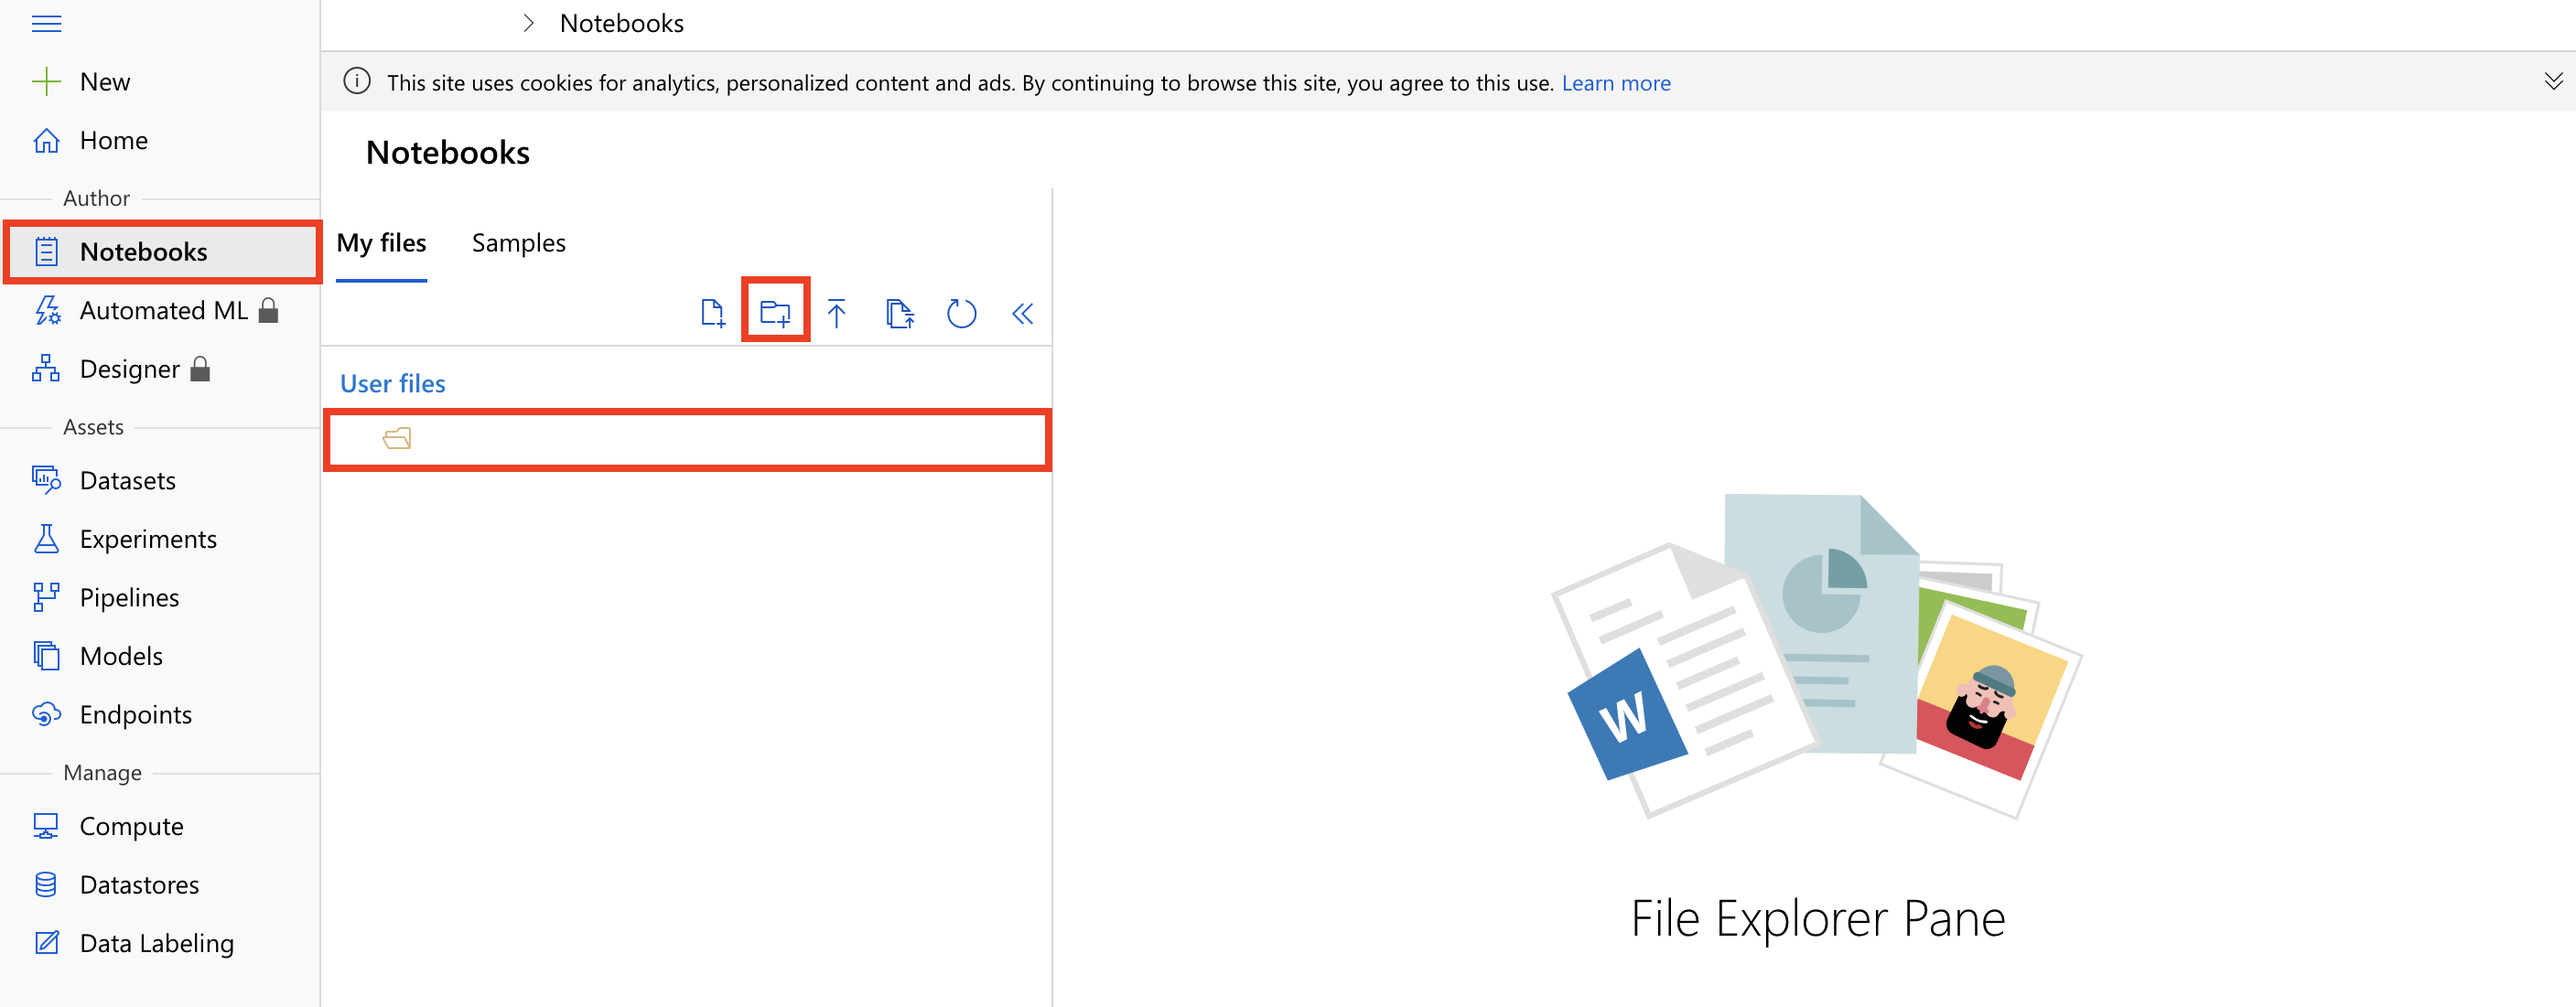
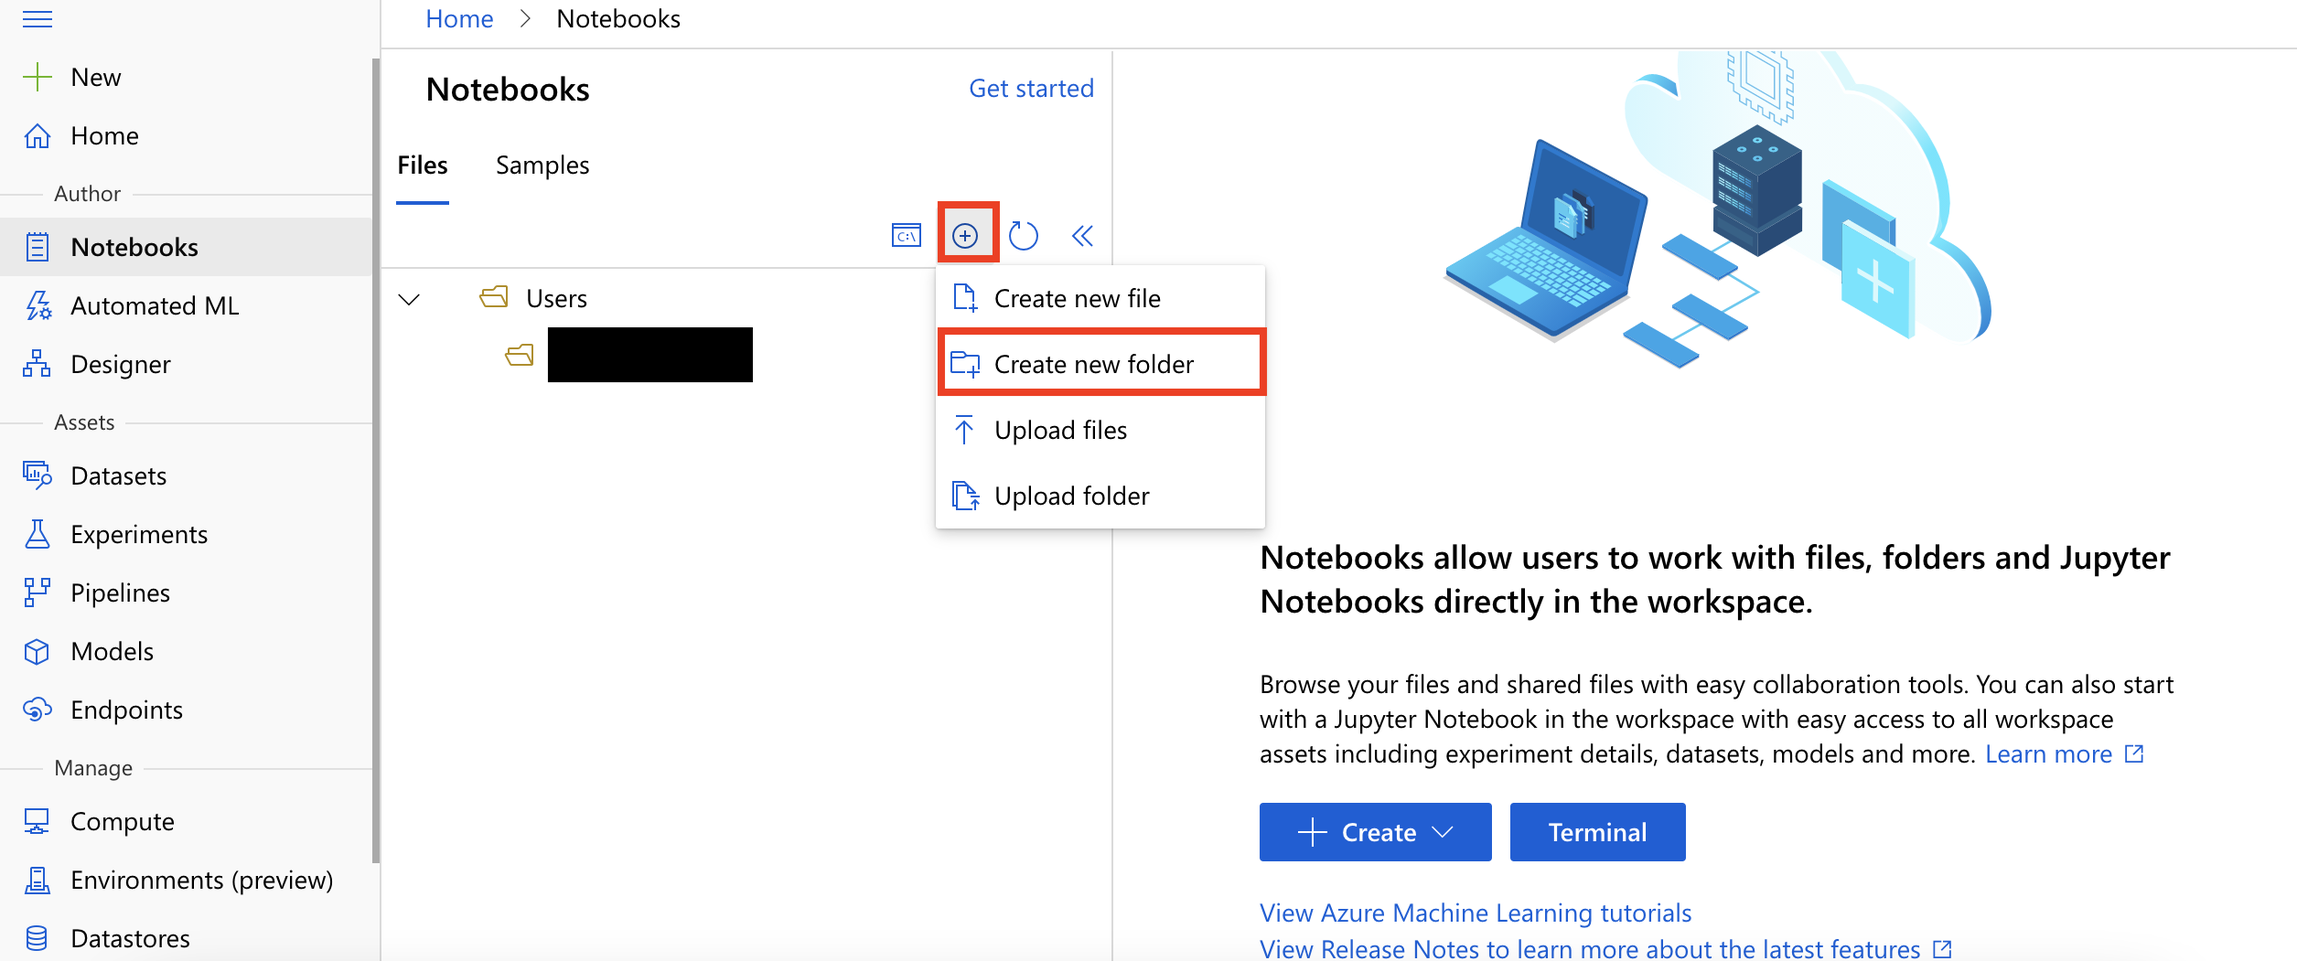
Sept 2021 updates fix issues #45 #46 #48

diff --git a/Hands-on lab/HOL step-by-step - MLOps.md b/Hands-on lab/HOL step-by-step - MLOps.md
@@ -55,7 +55,8 @@ Microsoft and the trademarks listed at <https://www.microsoft.com/en-us/legal/in
     - [Task 1: Create new release](#task-1-Create-new-release)
     - [Task 2: Monitor the Test Deployment stage](#task-2-Monitor-the-Test-Deployment-stage)
   - [Exercise 5: Testing the deployed solution and review deployed model datasheet](#Exercise-5-Testing-the-deployed-solution-and-review-deployed-model-datasheet)
-    - [Task 1: Test the deployment and review model datasheet](#Task-1-Test-the-deployment-and-review-model-datasheet)
+    - [Task 1: Setup the notebooks environment](#Task-1-Setup-the-notebooks-environment)
+    - [Task 2: Test the deployment and review model datasheet](#Task-2-Test-the-deployment-and-review-model-datasheet)
   - [Exercise 6: Deploy the Production Deployment stage](#Exercise-6-Deploy-the-Production-Deployment-stage)
     - [Task 1: Approve the Production Deployment](#Task-1-Approve-the-Production-Deployment)
     - [Task 2: Monitor the Production Deployment stage](#Task-2-Monitor-the-Production-Deployment-stage)
@@ -64,8 +65,7 @@ Microsoft and the trademarks listed at <https://www.microsoft.com/en-us/legal/in
     - [Task 2: Check Application Insights telemetry](#task-2-check-application-insights-telemetry)
     - [Task 3: Check the data collected](#task-3-check-the-data-collected)
   - [Exercise 8 (Optional): Creating and evaluating compliance classification models](#exercise-8-optional-creating-and-evaluating-compliance-classification-models)
-    - [Task 1: Setup the notebooks environment](#task-1-setup-the-notebooks-environment)
-    - [Task 2: Create the classification model using a notebook](#task-2-create-the-classification-model-using-a-notebook)
+    - [Task 1: Create the classification model using a notebook](#task-1-create-the-classification-model-using-a-notebook)
   - [Exercise 9 (Optional): Registering the model](#exercise-9-optional-registering-the-model)
     - [Task 1: Register Model using Azure Machine Learning Python SDK](#task-1-register-model-using-azure-machine-learning-python-sdk)
     - [Task 2: Register Model from Azure Machine Learning studio](#task-2-register-model-from-azure-machine-learning-studio)
@@ -443,19 +443,63 @@ Documenting the right information in the machine learning process is key to maki
 
 In this exercise, you verify that the release of the application works. You will also review the deployed model datasheet.
 
-### Task 1: Test the deployment and review model datasheet
+> **Note:** The new [Azure Machine Learning studio](https://ml.azure.com) provides a new immersive experience for managing the end-to-end machine learning lifecycle. You can use it either by logging in directly to it or by selecting the **Try the new Azure Machine Learning studio, Launch now** option in the **Overview** section of your Azure Machine Learning workspace.
 
-1. Download the [**Test Deployment.ipynb**](./notebooks/Test&#32;Deployment.ipynb) notebook to your computer, by selecting the **Raw** view in GitHub, and then **right-click + Save as**. Please ensure that the extension of the saved file is `.ipynb`. This is the notebook you will step through executing in this exercise.
+### Task 1: Setup the notebooks environment
 
-2. In the Azure Machine Learning Studio, navigate to **Notebooks**, and select **Upload files** option in the top menu.
+1. Download the [**Test Deployment.ipynb**](./notebooks/Test&#32;Deployment.ipynb) notebook to your computer, by selecting the **Raw** view in GitHub, and then **right-click + Save as**. Please ensure that the extension of the saved file is `.ipynb`. This is the notebook you will step through executing in this lab.
 
-3. Browse your local computer for the downloaded notebook, **Test Deployment.ipynb** and then select **MCW-MLOps** folder as the target folder. Select **Upload**.
+2. Sign in to [Azure Machine Learning studio](https://ml.azure.com).
 
-4. On the top bar, select the **mlops-compute** compute instance to use to run the notebook. Select the **Edit** drop down, and then select **Edit in Jupyter**. The new browser window will be opened.
+3. Select your subscription and the workspace you have available.
 
-5. Note that you will have to provide values for **Scoring URI** for the deployed ACI webservice in the notebook.
+4. Select **Notebooks, Go directly to my notebooks** on the left navigation pane.
 
-6. Follow the instructions within the notebook to complete the task.
+    ![In Azure Machine Learning Studio, Notebooks is selected from the left navigation pane.](media/notebook-00.png 'Open notebooks in Azure Machine Learning Studio')
+
+5. Select the folder under the **User files** section. It should be named as the currently logged username. Select the option to **Create new folder** in the top menu.
+
+    ![On the Notebooks screen, the current user is selected beneath the User Files section, and the Create New Folder icon is highlighted in the top toolbar.](media/notebook-01.png 'Create new notebooks folder')
+
+6. Fill in the folder name: `MCW-MLOps`.
+
+7. Select the **Upload files** option in the side menu.
+
+    ![On the Notebooks screen, beneath user files, the folder of the current user is expanded displaying the folder that was created in the previous step. The Upload files icon is highlighted in the top toolbar.](media/notebook-02.png 'Upload notebook to the workspace file share')
+
+8. Browse for the downloaded notebook, **Test Deployment.ipynb** and then select **Upload**.
+
+9. Select the notebook. Select **+ New Compute** to create the compute instance VM.
+
+    ![On the Notebooks screen, beneath user files, the folder of the current user is expanded along with the folder that was created in step 6. Inside this folder the Notebook that we uploaded in the previous step is displayed and is selected. On the Compute screen to the right, the + New Compute button is highlighted in the top taskbar.](media/notebook-03.png 'Create new compute instance')
+
+10. Provide the necessary data for creating a new compute instance to run on your notebooks.
+
+    - Compute name: `mlops-compute-<insert unique identifier>`. When you create a VM, provide a name. The name must be between 2 to 16 characters. Valid characters are letters, digits, and the – character. The compute name must not end with '-' or contain '-' followed by numbers. '-' needs to be followed by at least one letter. Finally, the compute name must also be unique across the entire Azure region.
+
+    - Virtual machine type: CPU (Central Processing Unit)
+
+    - Virtual machine size: **Standard_D3_v2**.
+
+    - Then select **Create**. It can take approximately 5 minutes to set up your VM.
+
+    ![The New Compute Instance form is displayed populated with the preceding values.](media/notebook-04.png 'Configure the new compute instance')
+
+    > **Note**: Once the VM is available it will be displayed in the top toolbar.
+
+### Task 2: Test the deployment and review model datasheet
+
+1. Select the uploaded **Test Deployment.ipynb** notebook, and then select the **Menu** drop down, and then select **Edit in Jupyter**. In the pop dialog, select **Continue** and then a new browser tab will be opened.
+
+    ![On the Notebooks screen, the Deep Learning with Text Notebook is selected. On the Compute screen to the right, a drop down list shows the compute currently running for the notebook, and in the taskbar the Edit option is expanded with the options Edit in Jupyter and Edit in JupyterLab.](media/notebook-05.png 'Edit the notebook in Jupyter')
+
+2. Select **Python 3.6 - Azure ML** if you are asked to select a Kernel.
+
+    ![A Kernel not found dialog is displayed with Python 3.6 - Azure ML selected from a drop down list. A Set Kernel button is available to confirm the kernel selection.](media/notebook-06.png 'Select Kernel version')
+
+3. Note that you will have to provide values for **Scoring URI** for the deployed ACI webservice in the notebook.
+
+4. Follow the instructions within the notebook to complete the task.
 
 ## Exercise 6: Deploy the Production Deployment stage
 
@@ -561,63 +605,19 @@ Duration: 40 minutes
 
 In this exercise, you create a model for classifying component text as compliant or non-compliant. This tutorial uses the cloud notebook server in your Azure Machine Learning workspace for an install-free and pre-configured experience, available in Azure Machine Learning studio.
 
-> **Note:** The new [Azure Machine Learning studio](https://ml.azure.com) provides a new immersive experience for managing the end-to-end machine learning lifecycle. You can use it either by logging in directly to it or by selecting the **Try the new Azure Machine Learning studio, Launch now** option in the **Overview** section of your Azure Machine Learning workspace.
-
-### Task 1: Setup the notebooks environment
+### Task 1: Create the classification model using a notebook
 
 1. Download the [**Deep Learning with Text.ipynb**](./notebooks/Deep&#32;Learning&#32;with&#32;Text.ipynb) notebook to your computer, by selecting the **Raw** view in GitHub, and then **right-click + Save as**. Please ensure that the extension of the saved file is `.ipynb`. This is the notebook you will step through executing in this lab.
 
-2. Sign in to [Azure Machine Learning studio](https://ml.azure.com).
+2. In the Azure Machine Learning Studio, navigate to **Notebooks**, and select **Upload files** option in the top menu.
 
-3. Select your subscription and the workspace you have available.
+3. Browse your local computer for the downloaded notebook, **Deep Learning with Text.ipynb** and then select **MCW-MLOps** folder as the target folder. Select **Upload**.
 
-4. Select **Notebooks** on the left navigation pane.
+4. On the top bar, select the **mlops-compute** compute instance to use to run the notebook. Select the **Edit** drop down, and then select **Edit in Jupyter**. The new browser window will be opened.
 
-    ![In Azure Machine Learning Studio, Notebooks is selected from the left navigation pane.](media/notebook-00.png 'Open notebooks in Azure Machine Learning Studio')
+5. Follow the instructions within the notebook to complete the lab.
 
-5. Select the folder under the **User files** section. It should be named as the currently logged username. Select the option to **Create new folder** in the top menu.
-
-    ![On the Notebooks screen, the current user is selected beneath the User Files section, and the Create New Folder icon is highlighted in the top toolbar.](media/notebook-01.png 'Create new notebooks folder')
-
-6. Fill in the folder name: `MCW-MLOps`.
-
-7. Select the **Upload files** option in the top menu.
-
-    ![On the Notebooks screen, beneath user files, the folder of the current user is expanded displaying the folder that was created in the previous step. The Upload files icon is highlighted in the top toolbar.](media/notebook-02.png 'Upload notebook to the workspace file share')
-
-8. Browse for the downloaded notebook, **Deep Learning with Text.ipynb** and then select **MCW-MLOps** folder as the target folder. Select **Upload**.
-
-9. Select the notebook. Select **+ New Compute** to create the compute instance VM.
-
-    ![On the Notebooks screen, beneath user files, the folder of the current user is expanded along with the folder that was created in step 6. Inside this folder the Notebook that we uploaded in the previous step is displayed and is selected. On the Compute screen to the right, the + New Compute button is highlighted in the top taskbar.](media/notebook-03.png 'Create new compute instance')
-
-10. Provide the necessary data for creating a new compute instance to run on your notebooks.
-
-    - Compute name: `mlops-compute-<insert unique identifier>`. When you create a VM, provide a name. The name must be between 2 to 16 characters. Valid characters are letters, digits, and the – character. The compute name must not end with '-' or contain '-' followed by numbers. '-' needs to be followed by at least one letter. Finally, the compute name must also be unique across the entire Azure region.
-
-    - Virtual machine type: CPU (Central Processing Unit)
-
-    - Virtual machine size: **Standard_D3_v2**.
-
-    - Then select **Create**. It can take approximately 5 minutes to set up your VM.
-
-    ![The New Compute Instance form is displayed populated with the preceding values.](media/notebook-04.png 'Configure the new compute instance')
-
-    > **Note**: Once the VM is available it will be displayed in the top toolbar.
-
-11. Having selected the uploaded **Deep Learning with Text.ipynb** notebook, select the **Menu** drop down, and then select **Edit in Jupyter**. In the pop dialog, select **Continue** and then a new browser tab will be opened.
-
-    ![On the Notebooks screen, the Deep Learning with Text Notebook is selected. On the Compute screen to the right, a drop down list shows the compute currently running for the notebook, and in the taskbar the Edit option is expanded with the options Edit in Jupyter and Edit in JupyterLab.](media/notebook-05.png 'Edit the notebook in Jupyter')
-
-12. Select **Python 3.6 - Azure ML** if you are asked to select a Kernel.
-
-    ![A Kernel not found dialog is displayed with Python 3.6 - Azure ML selected from a drop down list. A Set Kernel button is available to confirm the kernel selection.](media/notebook-06.png 'Select Kernel version')
-
-### Task 2: Create the classification model using a notebook
-
-1. Follow the instructions within the notebook to complete the lab.
-
-2. Back to the [Azure Machine Learning Studio](https://ml.azure.com), in **Notebooks**, under the **MCW-MLOps** folder, navigate to the **model** folder and download the **model.onnx** file to your local disk. We will use the downloaded model file in the next exercise.
+6. Back to the [Azure Machine Learning Studio](https://ml.azure.com), in **Notebooks**, under the **MCW-MLOps** folder, navigate to the **model** folder and download the **model.onnx** file to your local disk. We will use the downloaded model file in the next exercise.
 
    > **Note**: If the downloaded file name is changed to **utf-8 model.onnx** or **notebooks_model_model.onnx**, then rename the file back to `model.onnx`.
 
@@ -692,13 +692,5 @@ To avoid unexpected charges, it is recommended that you clean up all of your lab
 5. When the Notification indicates success, the cleanup is complete.
 
     ![The Notifications dialog box has a message stating that the resource group has been deleted.](media/cleanup-03.png 'Delete Resource Group Notification Dialog')
-
-6. Navigate to the Azure Portal and locate the virtual machine **mlops-agent** you created for this lab.
-
-7. Select **Delete** from the command bar.
-
-8. In the confirmation dialog that appears select **OK**.
-
-    ![The delete virtual machine confirmation dialog is shown with the OK button highlighted.](media/cleanup-04.png 'Delete Virtual Machine Confirmation Dialog')
 
 You should follow all steps provided _after_ attending the Hands-on lab.

diff --git a/Hands-on lab/Before the HOL - MLOps.md b/Hands-on lab/Before the HOL - MLOps.md
@@ -32,7 +32,7 @@ Microsoft and the trademarks listed at <https://www.microsoft.com/en-us/legal/in
     - [Task 1: Install the Microsoft DevLabs Machine Learning plugin for Azure DevOps](#task-1-install-the-microsoft-devlabs-machine-learning-plugin-for-azure-devops)
     - [Task 2: Create an Azure Machine Learning workspace](#task-2-create-an-azure-machine-learning-workspace)
     - [Task 3: Setup AKS Cluster for Production Deployment](#Task-3-setup-aks-cluster-for-production-deployment)
-    - [Task 4: Setup Azure DevOps Agent](#task-3-setup-azure-devops-agent)
+    - [Task 4: Setup Azure DevOps Agent](#task-4-setup-azure-devops-agent)
 
 <!-- /TOC -->
 
